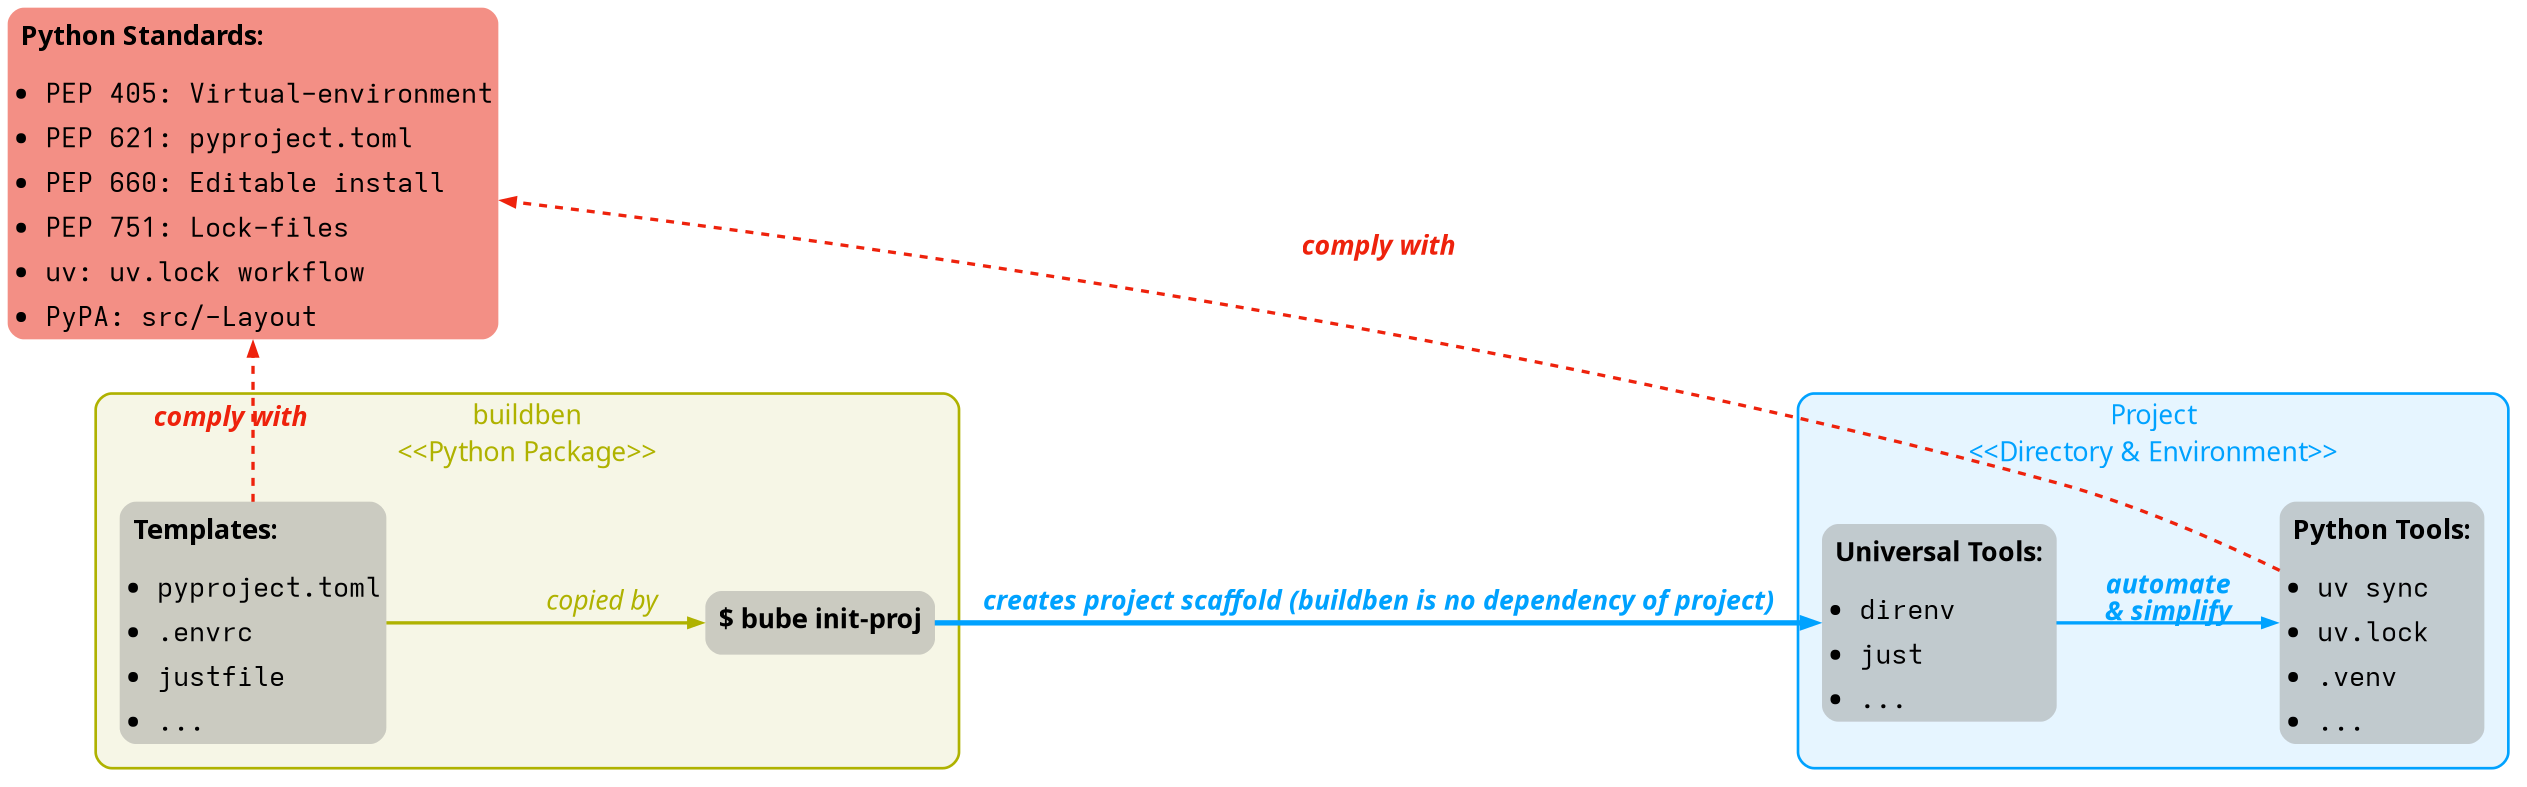
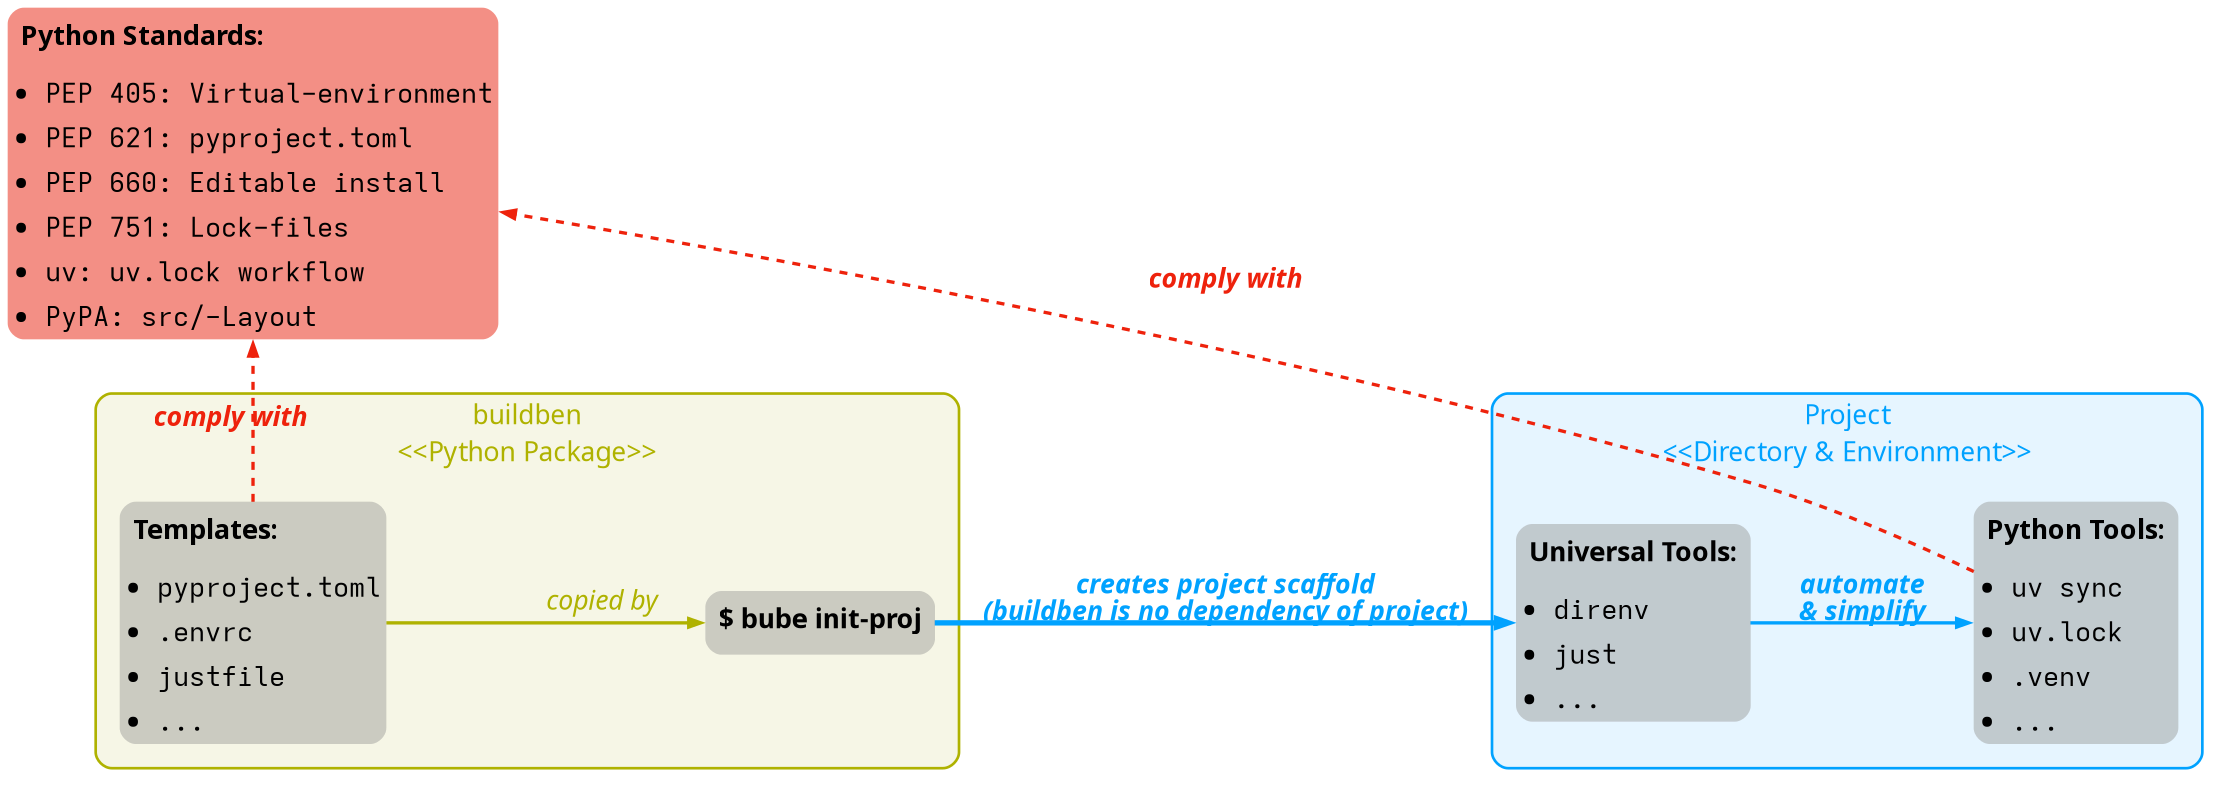
📝 docs(readme): update abstract layout and toc   - 【docs】 replace centered div with markdown table for abstract   - 【docs】 add top-level section for buildben with nested subsections   - 【docs】 update table of contents to reflect new structure
🔧 chore(assets): adjust svg generation and coords
  - 【chore】 regenerate svg and png assets with adjusted dimensions
  - 【chore】 update python render script to match new edge formatting
  - 【chore】 adjust coordinates and text positioning in svg file

diff --git a/tools/render_figures/graphical-abstract_init-proj.py b/tools/render_figures/graphical-abstract_init-proj.py
@@ -110,7 +110,7 @@ def build_graphical_abstract_init_proj() -> Digraph:
         graph,
         "BBinitcli",
         "Tools",
-        "creates project scaffold (buildben is no dependency of project)",
+        "creates project scaffold\n(buildben is no dependency of project)",
         BLUE,
         bold=True,
         penwidth="4",

diff --git a/README.md b/README.md
@@ -56,23 +56,33 @@ black](https://img.shields.io/badge/code%20style-black-000000.svg)](https://gith
 
 
 
-<div align="center">
-<img src="./assets/figures/graphical-abstract_init-proj-graphviz.svg" alt="graphical-abstract_init-proj-graphviz.svg" width="600px" style="background-color:transparent">
-  <p><em> 
-  <b> Graphical Abstract </b>
-  </em></p>
-</div>
+<!-- <div align="center">
+<img src="./assets/figures/graphical-abstract_init-proj-graphviz.svg" alt="graphical-abstract_init-proj-graphviz.png" width="600px" style="background-color:transparent">
+  <p>
+  <b> Graphical Abstract</b>: Buildben creates scaffolds for python projects adhering to Python PEP-standards.
+  </p>
+</div> -->
+
+
+
+
+| ![Graphical abstract](./assets/figures/graphical-abstract_init-proj-graphviz.svg) |
+|:--:|
+| **Fig. 1 - Graphical Abstract:** Buildben creates scaffolds for Python projects adhering to Python PEP standards. |
 
 <br>
+
+
 
 ### Table of Contents
 
 <!-- toc -->
 
-1. [📦 Installation](#-installation)
-2. [🚀 Usage](#-usage)
-3. [❓Optional Installs](#optional-installs)
-4. [📚  Examples / Documentation](#--examples--documentation)
+1. [`buildben`: build-benedictions](#buildben-build-benedictions)
+   1. [📦 Installation](#-installation)
+   2. [🚀 Usage](#-usage)
+   3. [❓Optional Installs](#optional-installs)
+   4. [📚  Examples / Documentation](#--examples--documentation)
 
 <!-- tocstop -->
 <!-- /toc -->